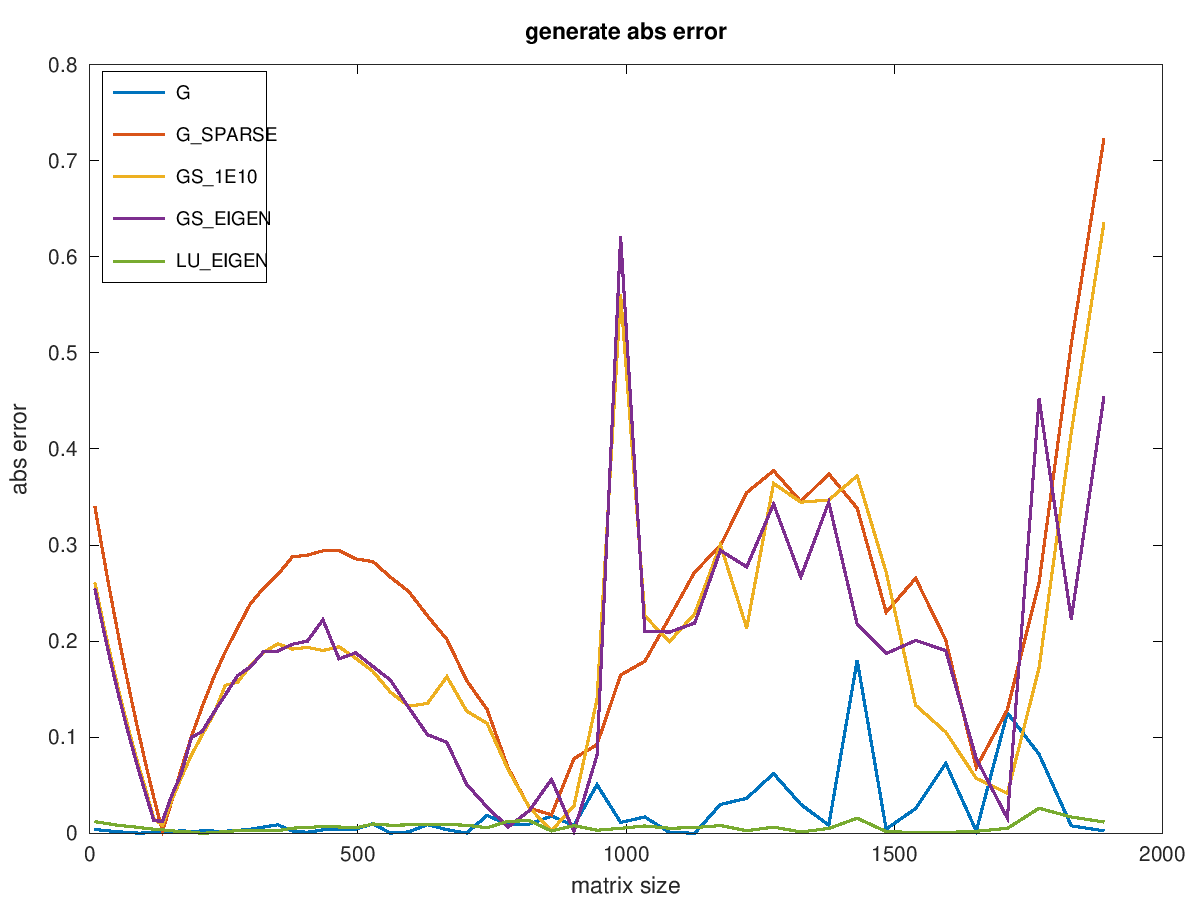
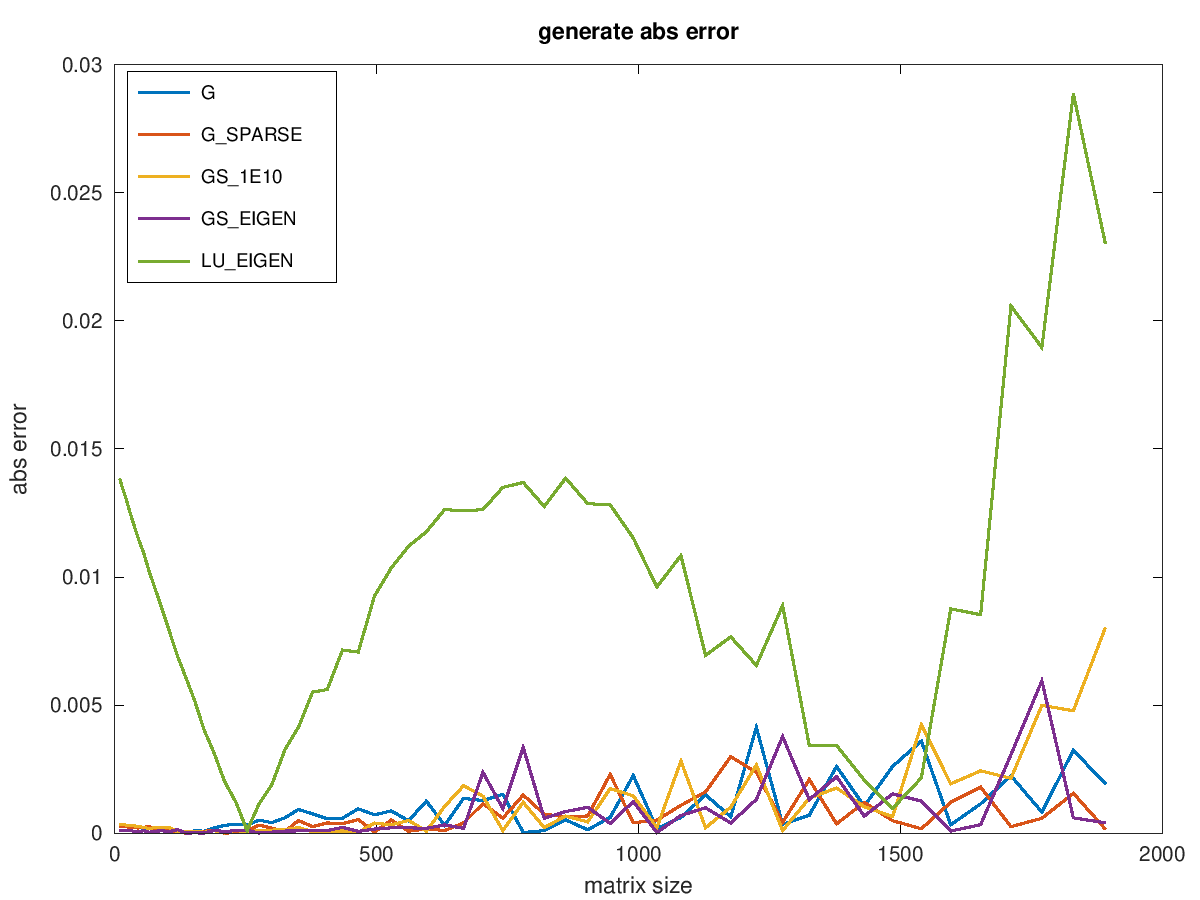
gtfo

diff --git a/04-approximations/src/scripts/00_plots_with_octave.m b/04-approximations/src/scripts/00_plots_with_octave.m
@@ -59,21 +59,19 @@ legend ("G", "G\\_SPARSE    ", "GS\\_1E10", "GS\\_EIGEN", "LU\\_EIGEN", "locatio
 
 print -dpng ../../report/plots/03_calc_abs_error_all_methods.png;
 
-###calc all methods rel error
-gauss_rel = gauss(3:60,5);
-gauss_sparse_rel = gauss_sparse(3:60,5);
-seidel_1e10_rel = gs_1e10(3:60,5);
-seidel_eigen_rel = gs_eigen(3:60,5);
-lu_eigen_rel = lu_eigen(3:60,5);
-all_rel = [(gauss_rel), (gauss_sparse_rel), (seidel_1e10_rel), (seidel_eigen_rel), (lu_eigen_rel)];
+% ###calc all methods rel error
+% gauss_rel = gauss(3:60,5);
+% gauss_sparse_rel = gauss_sparse(3:60,5);
+% seidel_1e10_rel = gs_1e10(3:60,5);
+% seidel_eigen_rel = gs_eigen(3:60,5);
+% lu_eigen_rel = lu_eigen(3:60,5);
+% all_rel = [(gauss_rel), (gauss_sparse_rel), (seidel_1e10_rel), (seidel_eigen_rel), (lu_eigen_rel)];
 
-plot(matrix_size, all_rel, "linewidth", 4);
-ylabel ("rel error");
-xlabel ("matrix size");
-title ("calculation rel error");
-legend ("G", "G\\_SPARSE    ", "GS\\_1E10", "GS\\_EIGEN", "LU\\_EIGEN", "location", "northwest");
-
-print -dpng ../../report/plots/04_calc_rel_error_all_methods.png;
+% plot(matrix_size, all_rel, "linewidth", 4);
+% ylabel ("rel error");
+% xlabel ("matrix size");
+% title ("calculation rel error");
+% legend ("G", "G\\_SPARSE    ", "GS\\_1E10", "GS\\_EIGEN", "LU\\_EIGEN", "location", "northwest");
 
 ###gen all methods abs error
 gen_gauss_abs = gauss(3:60,8);
@@ -83,7 +81,7 @@ gen_seidel_eigen_abs = gs_eigen(3:60,8);
 gen_lu_eigen_abs = lu_eigen(3:60,8);
 gen_all_abs = [(gen_gauss_abs), (gen_gauss_sparse_abs), (gen_seidel_1e10_abs), (gen_seidel_eigen_abs), (gen_lu_eigen_abs)];
 
-plot(matrix_size, all_abs, "linewidth", 4);
+plot(matrix_size, gen_all_abs, "linewidth", 4);
 ylabel ("abs error");
 xlabel ("matrix size");
 title ("generate abs error");
@@ -91,21 +89,21 @@ legend ("G", "G\\_SPARSE    ", "GS\\_1E10", "GS\\_EIGEN", "LU\\_EIGEN", "locatio
 
 print -dpng ../../report/plots/05_gen_abs_error_all_methods.png;
 
-###gen all methods rel error
-gen_gauss_rel = gauss(3:60,8);
-gen_gauss_sparse_rel = gauss_sparse(3:60,8);
-gen_seidel_1e10_rel = gs_1e10(3:60,8);
-gen_seidel_eigen_rel = gs_eigen(3:60,8);
-gen_lu_eigen_rel = lu_eigen(3:60,8);
-gen_all_abs = [(gen_gauss_rel), (gen_gauss_sparse_rel), (gen_seidel_1e10_rel), (gen_seidel_eigen_rel), (gen_lu_eigen_rel)];
+% ###gen all methods rel error
+% gen_gauss_rel = gauss(3:60,8);
+% gen_gauss_sparse_rel = gauss_sparse(3:60,8);
+% gen_seidel_1e10_rel = gs_1e10(3:60,8);
+% gen_seidel_eigen_rel = gs_eigen(3:60,8);
+% gen_lu_eigen_rel = lu_eigen(3:60,8);
+% gen_all_abs = [(gen_gauss_rel), (gen_gauss_sparse_rel), (gen_seidel_1e10_rel), (gen_seidel_eigen_rel), (gen_lu_eigen_rel)];
 
-plot(matrix_size, all_abs, "linewidth", 4);
-ylabel ("rel error");
-xlabel ("matrix size");
-title ("generate rel error");
-legend ("G", "G\\_SPARSE    ", "GS\\_1E10", "GS\\_EIGEN", "LU\\_EIGEN", "location", "northwest");
+% plot(matrix_size, all_abs, "linewidth", 4);
+% ylabel ("rel error");
+% xlabel ("matrix size");
+% title ("generate rel error");
+% legend ("G", "G\\_SPARSE    ", "GS\\_1E10", "GS\\_EIGEN", "LU\\_EIGEN", "location", "northwest");
 
-print -dpng ../../report/plots/06_gen_rel_error_all_methods.png;
+% print -dpng ../../report/plots/06_gen_rel_error_all_methods.png;
 
 
 
